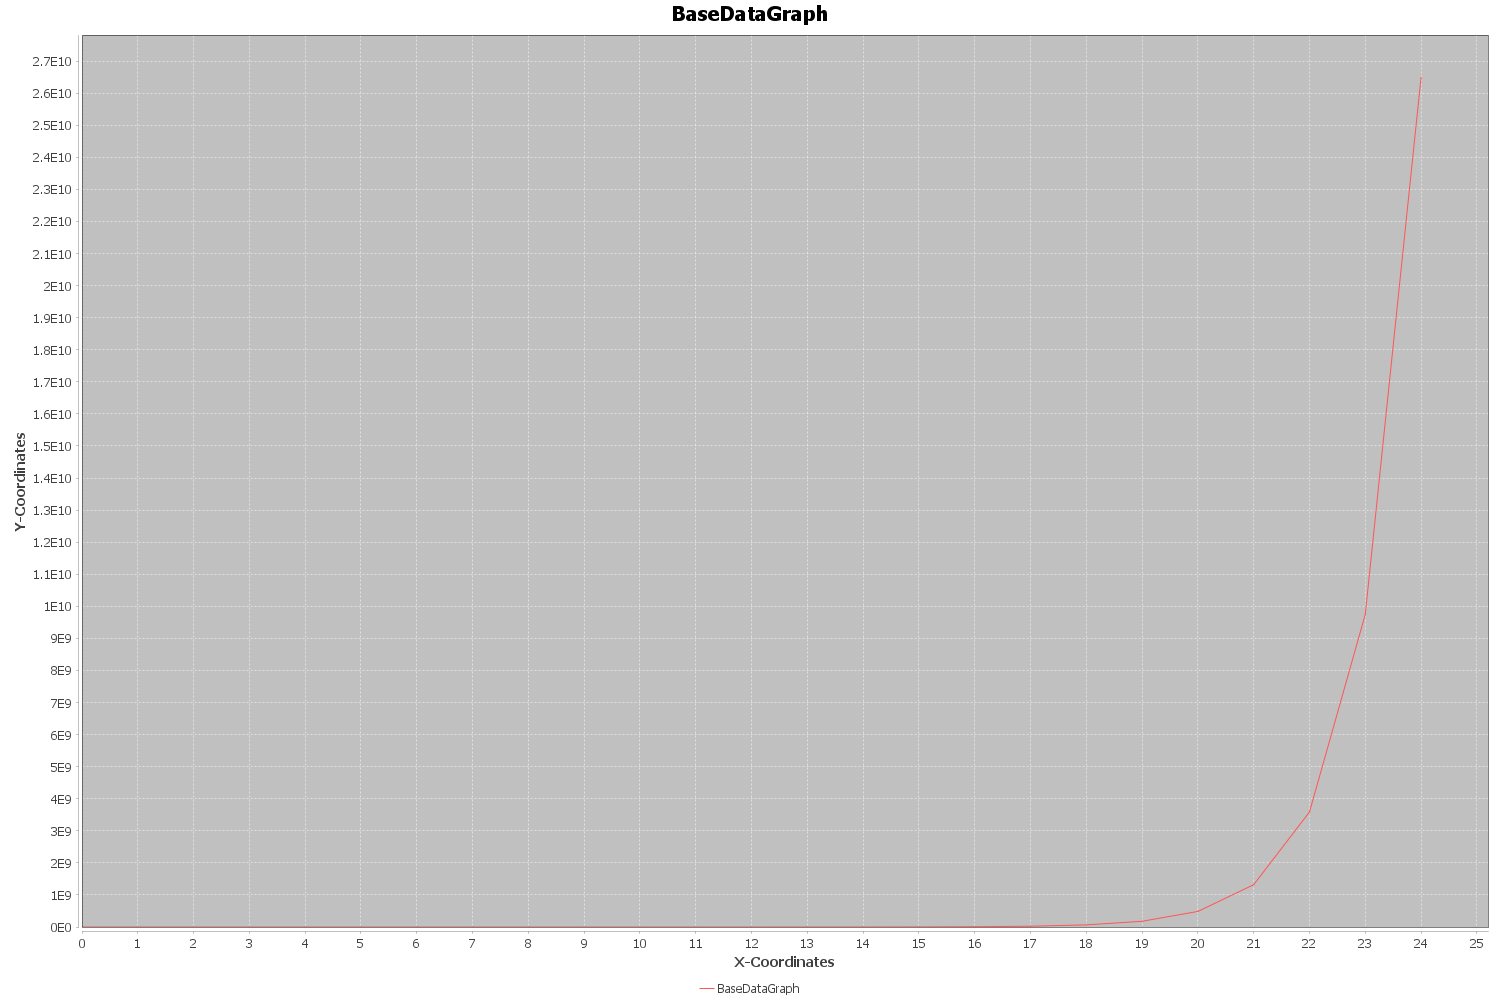
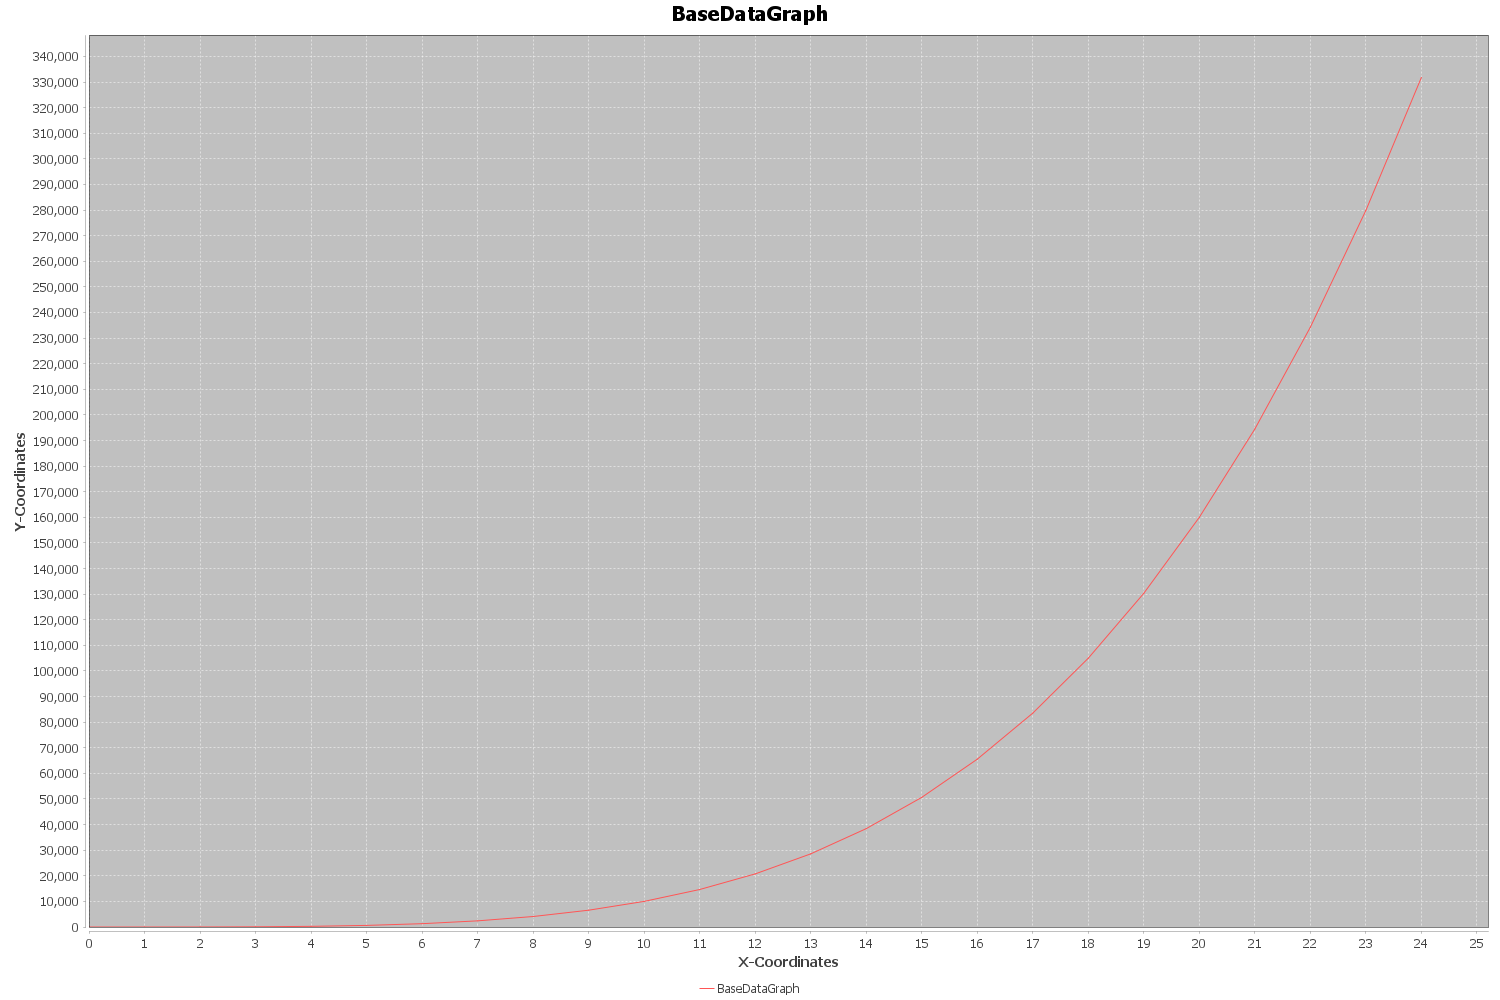
Added a exponent window, to the exponential graph Allowing the user to add in what exponent they want their graph to be manipulated by.
changed how my exponent function works, before it
was incorret and actually calculating y=e^x, when
I changed it to y=x^n, where the user can input
an n value of their choosing

diff --git a/src/main/java/ExtraCredit/ChartAppCreator.java b/src/main/java/ExtraCredit/ChartAppCreator.java
@@ -89,15 +89,19 @@ public class ChartAppCreator {
                 public void actionPerformed(ActionEvent e){
                     FunctionPlot math = new FunctionPlot();
                     ArrayList<double[]> dataset = new ArrayList<>();
-
                     try{
                         double x = Double.parseDouble(initialX.getText());
                         String function = (String) functionSelect.getSelectedItem();
                         graphingData.clear();
                         groupData.removeAllSeries();
                         switch(function){//Creates a switch case checking for which function is selected in the dropdown menu
-                            case "Exponential":           
-                                dataset = math.expFunc(x);
+                            case "Exponential": //Creates a popup window to enter an exponent
+                                String expInput = JOptionPane.showInputDialog(null, "Enter an exponent:", "Exponent Selection", JOptionPane.PLAIN_MESSAGE);
+                                if (expInput == null || expInput.trim().isEmpty()) {//Checks to make sure the exponent input isn't empty
+                                    return;
+                                }
+                                    int exp = Integer.parseInt(expInput.trim());
+                                    dataset = math.expFunc(x, exp);
                                 break;
                             case "Logarithmic":
                                 dataset = math.logFunc(x);
@@ -128,15 +132,19 @@ public class ChartAppCreator {
                 public void actionPerformed(ActionEvent e){
                     FunctionPlot math = new FunctionPlot();
                     ArrayList<double[]> dataset = new ArrayList<>();
-
                     try{
                         double x = Double.parseDouble(initialX.getText());
                         String function = (String) functionSelect.getSelectedItem();
                         graphingData.clear();
                         groupData.removeAllSeries();
                         switch(function){//Creates a switch case checking for which function is selected in the dropdown menu
-                            case "Exponential":           
-                                dataset = math.expFunc(x);
+                            case "Exponential": //Creates a popup window to enter an exponent value
+                                String expInput = JOptionPane.showInputDialog(null, "Enter an exponent:", "Exponent Selection", JOptionPane.PLAIN_MESSAGE);
+                                if (expInput == null || expInput.trim().isEmpty()) {//Checks to make sure the exponent isn't empty
+                                    return;
+                                }
+                                    int exp = Integer.parseInt(expInput.trim());
+                                    dataset = math.expFunc(x, exp);
                                 break;
                             case "Logarithmic":
                                 dataset = math.logFunc(x);

diff --git a/src/main/java/JavaPSSFIles/FunctionPlot.java b/src/main/java/JavaPSSFIles/FunctionPlot.java
@@ -3,11 +3,11 @@ package JavaPSSFIles;
 import java.util.ArrayList;
 public class FunctionPlot {
     //This will produce the plot points for the first 25 points of an exponential function
-    public ArrayList<double[]> expFunc(double initialX){
+    public ArrayList<double[]> expFunc(double initialX, int exponent){
         ArrayList<double[]> points = new ArrayList<>();//Creates an arraylist to hold the coordinate points of the function
         double y;
         for(double i = initialX; i < initialX+25; i++){//Loops 25 times to produce 25 pairs of datapoints
-            y = Math.exp(i);//Computers y=x^2 for each x value on the graph
+            y = Math.pow(i, exponent);//Computers y=x^2 for each x value on the graph
             points.add(new double[]{i,y});//Adds the data points into the points arraylist 
         }
         return points;//returns the dataset containing all the data points for y=x^2

diff --git a/src/main/java/JavaPSSFIles/csvTester.java b/src/main/java/JavaPSSFIles/csvTester.java
@@ -16,7 +16,7 @@ public class csvTester {
         //ExtraCredit
         GraphTitleWindow app = new GraphTitleWindow();
 
-        handler.csvOverWriter(function.expFunc(0), "ProjectOutput\\plotOutPut.csv");//Calls the exponent function within he csvOverwriter function and saves it to the inputted file path
+        handler.csvOverWriter(function.expFunc(0, 4), "ProjectOutput\\plotOutPut.csv");//Calls the exponent function within he csvOverwriter function and saves it to the inputted file path
         ArrayList<double[]> parsedData = handler.dataReader("ProjectOutput\\plotOutPut.csv");//Sets parsedData to the parsed dataset produced by dataReader
 
         ArrayList<double[]> saltedSet = salt.salter(parsedData);//Salts the parsed dataset
